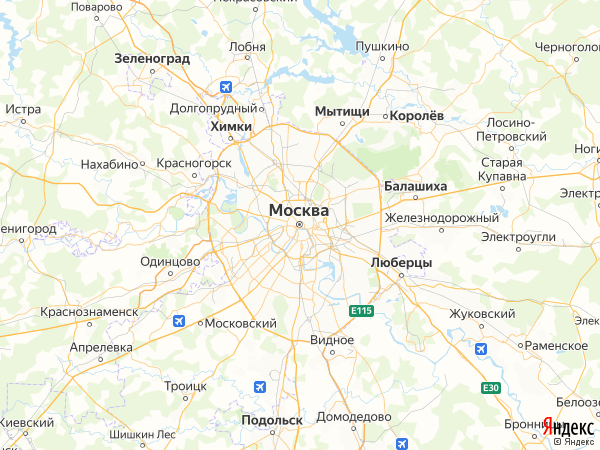
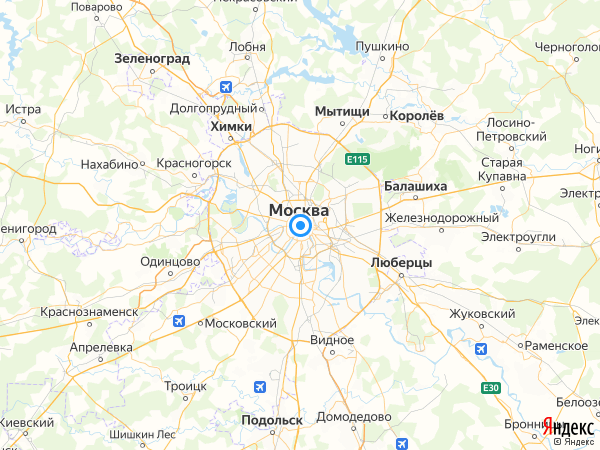
done

diff --git a/main.py b/main.py
@@ -24,7 +24,7 @@ class Main(QMainWindow, SearchWindow):
     def show_map(self):
         sender = self.sender()
         map = Map()
-        map.map_type = self.map_type
+        self.map_type = map.map_type
         self.maps.append(map)
         if sender is not None and sender.text() == 'Найти':
             map.coords = (self.lineEdit_2.text(), self.lineEdit.text())
@@ -49,7 +49,7 @@ class Map(QMainWindow, MapWindow):
         self.first = True
 
     def show_map(self):
-        map_file = request(self.coords, self.size, self.map_type)
+        map_file = request(self.coords, self.size, self.map_type, self.first)
         self.pixmap = QPixmap(map_file)
         self.label.setPixmap(self.pixmap)
         self.update()

diff --git a/request_by_coords.py b/request_by_coords.py
@@ -1,7 +1,7 @@
 import requests
 
 
-def request(coords, size, map_type, typee=False):
+def request(coords, size, map_type='map', typee=False):
     text_coords = ','.join(([str(i) for i in coords]))
     if typee:
         map_request = \
